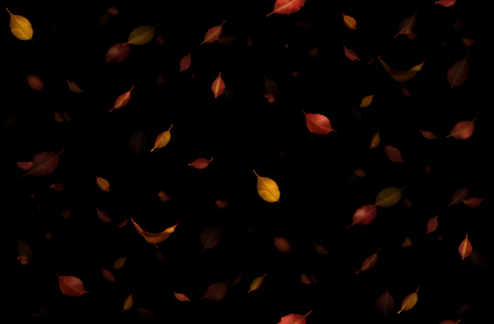
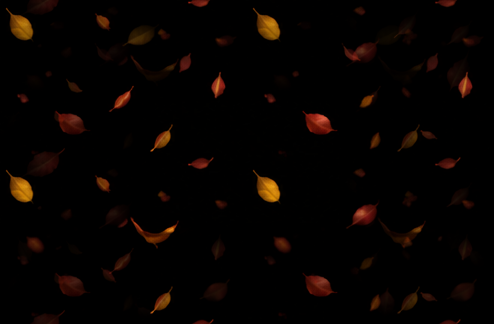
Environment effects start on Azeroth: Eastern Tirisfal gets fog, gloom, moonlight and glowing cauldrons
Kyle, 21 Nov 2026: "start to incorporate it through azeroth too", "test it with ONE zone", and "supplement
zones but NOT dominate them". world/zone_effects.py holds each map's effects and the zone loader applies them.
The renderer gains shade lists, a floor on scrolling layers so fog adds only its wisps, glows round every
lantern, brazier, fire and cauldron, and (unused for now) passing birds and flyover shadows. The scrolling
layers are re-sliced with a seam fix, because the old one left a cross through the middle of every tile.

Claude-Session: https://claude.ai/code/session_015TQrViPbuGDeiupTWSG9TT

diff --git a/ui/tilemap_renderer.py b/ui/tilemap_renderer.py
@@ -1234,12 +1234,17 @@ class TilemapRenderer:
         self._draw_occluders(screen, camera, viewport_rect, tilemap, player_pos, vendors)
         # ENVIRONMENT EFFECTS (docs/environment_effects_art_prompts.md): shade first (multiplied), then the scrolling
         # weather and fog layers and the drifting particles, then light over everything
-        if getattr(tilemap, "shade", None):
-            self._draw_shade(screen, camera, viewport_rect, tilemap.shade)
+        _shade = getattr(tilemap, "shade", None)
+        for _s in (_shade if isinstance(_shade, list) else [_shade] if _shade else ()):
+            self._draw_shade(screen, camera, viewport_rect, _s)
         for _layer in getattr(tilemap, "weather", None) or ():
             self._draw_weather(screen, camera, viewport_rect, _layer)
+        if getattr(tilemap, "glows", None):
+            self._draw_glows(screen, camera, viewport_rect, tilemap)
         if getattr(tilemap, "particles", None):
             self._draw_particles(screen, viewport_rect, tilemap)
+        if getattr(tilemap, "life", None):
+            self._draw_life(screen, viewport_rect, tilemap)
         if _sky:
             self._draw_sun(screen, viewport_rect, _sky)
         elif getattr(tilemap, "light", None):
@@ -1311,9 +1316,13 @@ class TilemapRenderer:
     # world the way the sky maps' sun is, breathing slowly so the beams feel like weather and not a sticker.
     EFFECTS_DIR = "assets/effects/"
 
-    def _effect(self, folder, name, size, strength=1.0, toward=(0, 0, 0)):
-        """An effect image at a size, faded toward black (light, added) or white (shade, multiplied) by strength."""
-        key = (folder, name, size, round(strength, 2), toward)
+    def _effect(self, folder, name, size, strength=1.0, toward=(0, 0, 0), floor=0.0):
+        """An effect image at a size, faded toward black (light, added) or white (shade, multiplied) by strength.
+
+        floor (0 to 1) takes that much off every pixel of an added layer first, so the faint haze between a fog's wisps
+        goes to nothing and only the wisps themselves are added. Kyle, 21 Nov 2026: weather effects "supplement zones
+        but NOT dominate them. They should complement the zone"; without a floor a fog layer greys the whole screen."""
+        key = (folder, name, size, round(strength, 2), toward, round(floor, 2))
         surf = self._sky_cache.get(key)
         if surf is None and key not in self._sky_cache:
             import os
@@ -1321,6 +1330,19 @@ class TilemapRenderer:
             if not os.path.exists(path):
                 path = f"{self.SKY_DIR}{name}.png"          # the sky's own sun rays live there
             surf = get_landmark_sprite(path, size[0], size[1])
+            if surf is not None and floor > 0 and toward == (0, 0, 0):
+                surf = surf.copy()
+                f = int(255 * min(1.0, floor))
+                surf.fill((f, f, f), special_flags=pygame.BLEND_SUB)
+                # stretch what's left back up, so the wisps keep their brightness
+                gain = 255.0 / max(1, 255 - f)
+                while gain > 1.01:
+                    step = min(gain, 2.0)
+                    copy = surf.copy()
+                    k = int(255 * (step - 1.0))
+                    copy.fill((k, k, k), special_flags=pygame.BLEND_MULT)
+                    surf.blit(copy, (0, 0), special_flags=pygame.BLEND_ADD)
+                    gain /= step
             if surf is not None and strength < 0.999:
                 surf = surf.copy()
                 if toward == (0, 0, 0):
@@ -1360,7 +1382,8 @@ class TilemapRenderer:
         "parallax": 1.0}. Added over the screen, scrolling at its own speed on top of the camera's."""
         import time
         size = int(self.tile_size * layer.get("tile", 14))
-        surf = self._effect("weather", layer["layer"], (size, int(size * 0.66)), float(layer.get("strength", 0.5)))
+        surf = self._effect(layer.get("folder", "weather"), layer["layer"], (size, int(size * 0.66)),
+                            float(layer.get("strength", 0.5)), floor=float(layer.get("floor", 0.0)))
         if surf is None:
             return
         sx, sy = layer.get("speed", (0, 0))
@@ -1413,6 +1436,131 @@ class TilemapRenderer:
             turns = st["sprites"][p[4] % len(st["sprites"])]
             img = turns[int((now * spin * p[3] / 45.0) + p[4]) % len(turns)]
             screen.blit(img, (viewport_rect.x + p[0] - img.get_width() // 2, viewport_rect.y + p[1] - img.get_height() // 2))
+        screen.set_clip(clip)
+
+    # LIGHT FROM THINGS THAT GIVE LIGHT. tilemap.glows = {"strength": 0.8}: every lantern, brazier, campfire, cauldron
+    # and lit window on the map throws a soft pool of its own colour, added over the gloom, so a dark zone has warm
+    # places in it. Which props glow and how is GLOW_KINDS, matched on the prop's art name, so new maps light themselves.
+    #: (words in the art name, colour, radius in tiles, how high up the prop the light sits, 0 top to 1 bottom)
+    GLOW_KINDS = (
+        (("fel_brazier", "fel_fire", "fel_crystal", "fel_lamp"), (90, 230, 60), 3.2, 0.35),
+        (("plague_cauldron", "plague_vat", "plague_brazier"), (140, 220, 50), 3.0, 0.45),
+        (("moon_lantern", "moonwell", "moon_lamp", "wisp_lamp"), (120, 170, 255), 3.0, 0.3),
+        (("glow_mushroom", "mushroom_ring", "glowcap"), (60, 220, 200), 2.4, 0.6),
+        (("lantern", "lamp_post", "lamppost", "sconce", "candle", "lamp"), (255, 180, 90), 2.6, 0.25),
+        (("brazier", "bonfire", "campfire", "fire_pit", "firepit", "pyre", "torch", "hearth", "forge", "beacon"),
+         (255, 140, 50), 3.4, 0.55),
+    )
+    _glow_tex = {}
+
+    @classmethod
+    def _glow_spec(cls, sprite_key):
+        name = sprite_key.rsplit("/", 1)[-1].lower()
+        for words, colour, radius, height in cls.GLOW_KINDS:
+            if any(w in name for w in words):
+                return colour, radius, height
+        return None
+
+    def _glow_surface(self, colour, radius_px, strength):
+        key = (colour, radius_px, round(strength, 2))
+        surf = self._glow_tex.get(key)
+        if surf is None:
+            import numpy as np
+            d = radius_px * 2
+            yy, xx = np.mgrid[0:d, 0:d].astype(np.float32)
+            r = np.sqrt((xx - radius_px) ** 2 + (yy - radius_px) ** 2) / radius_px
+            fall = np.clip(1.0 - r, 0.0, 1.0) ** 2.2 * strength            # bright at the source, gone at the rim
+            rgb = (fall[..., None] * np.array(colour, np.float32)[None, None, :]).astype(np.uint8)
+            surf = pygame.surfarray.make_surface(rgb.transpose(1, 0, 2))
+            self._glow_tex[key] = surf
+        return surf
+
+    def _draw_glows(self, screen, camera, viewport_rect, tilemap):
+        spots = getattr(tilemap, "_glow_spots", None)
+        if spots is None:
+            spots = []
+            for lm in getattr(tilemap, "landmarks", []):
+                spec = self._glow_spec(lm.get("sprite_key", ""))
+                if spec:
+                    colour, radius, height = spec
+                    spots.append((lm["anchor_x"] + lm["width_tiles"] / 2.0,
+                                  lm["anchor_y"] + lm["height_tiles"] * height, colour, radius))
+            tilemap._glow_spots = spots
+        if not spots:
+            return
+        k = float(tilemap.glows.get("strength", 0.8))
+        clip = screen.get_clip()
+        screen.set_clip(viewport_rect)
+        for gx, gy, colour, radius in spots:
+            sx, sy = camera.world_to_screen(gx, gy, self.tile_size)
+            rp = int(radius * self.tile_size)
+            x, y = viewport_rect.x + sx - rp, viewport_rect.y + sy - rp
+            if x > viewport_rect.right or y > viewport_rect.bottom or x + 2 * rp < viewport_rect.x \
+                    or y + 2 * rp < viewport_rect.y:
+                continue
+            screen.blit(self._glow_surface(colour, rp, k), (x, y), special_flags=pygame.BLEND_ADD)
+        screen.set_clip(clip)
+
+    # AMBIENT LIFE AND FLYOVER SHADOWS (EFX8). tilemap.life = {"flyers": ["life_crow", "shadow_hawk"], "every": (9, 20),
+    # "size": 1.4, "speed": 70}: now and then one thing crosses the screen, a bird over you or the shadow of something big
+    # much higher up. One at a time, so it stays a surprise. Shadows are drawn see-through; the creatures that are painted
+    # from above (UP_FACING) are turned to face where they're going, and the rest are flipped to.
+    LIFE_UP_FACING = {"shadow_dragon", "shadow_wyvern", "shadow_hawk", "life_vulture", "life_butterfly_blue",
+                      "life_monarch", "life_moth", "life_bats", "life_bees"}
+    #: a few of them together in one picture, so drawn bigger to keep each one readable
+    LIFE_GROUPS = {"life_bats", "life_bees", "life_geese", "life_parrots", "life_fish_school", "shadow_flock"}
+    _life_state = {}
+
+    def _draw_life(self, screen, viewport_rect, tilemap):
+        import math
+        import random
+        import time
+        cfg = tilemap.life
+        now = time.time()
+        st = self._life_state.get(tilemap.name)
+        if st is None:
+            # the first one is already on its way across when you arrive
+            st = {"next": now, "fly": None, "first": True}
+            self._life_state[tilemap.name] = st
+        w, h = viewport_rect.width, viewport_rect.height
+        if st["fly"] is None and now >= st["next"] and cfg.get("flyers"):
+            name = random.choice(cfg["flyers"])
+            shadow = name.startswith("shadow_")
+            size = self.tile_size * cfg.get("size", 1.4) * (2.6 if shadow else 1.5 if name in self.LIFE_GROUPS else 1.0)
+            img = get_landmark_sprite(f"{self.EFFECTS_DIR}life/{name}.png", int(size), int(size))
+            if img is not None:
+                left = random.random() < 0.5
+                y0, y1 = random.uniform(0.1, 0.9) * h, random.uniform(0.1, 0.9) * h
+                x0, x1 = (-size, w + size) if left else (w + size, -size)
+                ang = math.degrees(math.atan2(-(y1 - y0), x1 - x0))
+                if name in self.LIFE_UP_FACING:
+                    img = pygame.transform.rotate(img, ang - 90)
+                elif not left:
+                    img = pygame.transform.flip(img, True, False)
+                if shadow:
+                    img = img.copy()
+                    img.set_alpha(int(cfg.get("shadow_alpha", 95)))
+                speed = cfg.get("speed", 70.0) * (1.8 if shadow else 1.0)
+                dur = math.hypot(x1 - x0, y1 - y0) / max(1.0, speed)
+                start = now - (dur * 0.35 if st["first"] else 0.0)
+                st["fly"] = {"img": img, "a": (x0, y0), "b": (x1, y1), "t0": start, "dur": dur,
+                             "bob": 0.0 if shadow else 6.0}
+            st["first"] = False
+        fly = st["fly"]
+        if fly is None:
+            return
+        u = (now - fly["t0"]) / fly["dur"]
+        if u >= 1.0:
+            st["fly"] = None
+            lo, hi = cfg.get("every", (9, 20))
+            st["next"] = now + random.uniform(lo, hi)
+            return
+        x = fly["a"][0] + (fly["b"][0] - fly["a"][0]) * u
+        y = fly["a"][1] + (fly["b"][1] - fly["a"][1]) * u + math.sin(now * 3.0) * fly["bob"]
+        img = fly["img"]
+        clip = screen.get_clip()
+        screen.set_clip(viewport_rect)
+        screen.blit(img, (viewport_rect.x + x - img.get_width() // 2, viewport_rect.y + y - img.get_height() // 2))
         screen.set_clip(clip)
 
     def _draw_light(self, screen, viewport_rect, light):

diff --git a/world/zone_effects.py b/world/zone_effects.py
@@ -1,0 +1,51 @@
+"""Environment effects across Azeroth (docs/environment_effects_art_prompts.md, EFX1 to EFX10).
+
+Kyle, 21 Nov 2026: "I gave you a shit load of visual effect art. You used it in the SC starting zone and also the sky
+zones. Can you start to incorporate it through azeroth too." And: "let's test it with ONE zone!" So this starts with
+Eastern Tirisfal alone, and the rest of Azeroth joins it once Kyle has seen it.
+
+A map's effects are five optional layers, drawn by ui/tilemap_renderer.py over the world in this order:
+
+  shade      {"layer": "shade_haunted", "strength": 0.3}, or a list     multiplied: a vignette, or with "tile" a
+                                                                       drifting pattern (leaf shadow, cloud shadow)
+  weather    [{"layer": "atm_ground_fog", "strength": 0.3, ...}, ...]   scrolling layers, added, each at its own speed
+  particles  {"sprites": ["p_spore_plague"], "count": 6, ...}          small things drifting across the screen
+  glows      {"strength": 0.8}                                         a pool of light round every lantern, brazier,
+                                                                       campfire and cauldron on the map
+  life       {"flyers": ["life_crow", "shadow_wyvern"], ...}           now and then a bird, or a shadow far above
+  light      {"layer": "light_moonlight", "strength": 0.2}             added over everything, breathing slowly
+
+Maps that set their own (Dawnhaven's three, the sky maps) are left alone.
+"""
+
+ZONES = {
+    # Tirisfal: the Forsaken's grey country, cold and damp. A haunted vignette and a cool wet cast over everything,
+    # low fog lying on the ground and drifting very slowly, thin moonlight through it, and the plague cauldrons
+    # throwing their green into the murk. Kyle, 21 Nov 2026: "Let's stick with effects before we play with movement.
+    # Fog, sun, dampness etc. Lights", so no particles or passing birds yet.
+    "Eastern Tirisfal": {
+        "shade": {"layer": "shade_haunted", "strength": 0.28},
+        "weather": [
+            {"layer": "atm_ground_fog", "strength": 0.32, "floor": 0.3, "tile": 18, "speed": (-4, 1), "parallax": 1.0},
+        ],
+        "glows": {"strength": 0.75},
+        "light": {"layer": "light_moonlight", "strength": 0.16, "breathe": 0.1},
+    },
+}
+
+KEYS = ("shade", "weather", "glows", "particles", "life", "light")
+
+
+def apply(zones):
+    """Put each map's effects on it. `zones` is {name: tilemap}. Returns how many maps got effects."""
+    n = 0
+    for name, tm in zones.items():
+        fx = ZONES.get(name)
+        if not fx or getattr(tm, "sky", None) or any(getattr(tm, k, None) for k in KEYS):
+            continue
+        for k in KEYS:
+            if k in fx:
+                v = fx[k]
+                setattr(tm, k, [dict(x) for x in v] if isinstance(v, list) else dict(v))
+        n += 1
+    return n

diff --git a/tools/slice_effects_sheets.py b/tools/slice_effects_sheets.py
@@ -68,16 +68,26 @@ INSET = 9
 
 
 def seamless(img):
-    """Cross-fade a half-offset copy over the seams, so the panel tiles on all four sides."""
+    """Cross-fade a half-offset copy over the seams, one axis at a time, so the panel tiles on all four sides.
+
+    Each pass rolls the panel half its width (or height) along ONE axis and fades it in toward that axis's edges only:
+    the rolled copy's own seam lands in the middle, where it isn't used at all. The first version rolled both axes at
+    once and faded by distance to any edge, which put the copy's seams back in along the middle of every edge as a
+    visible cross (found 21 Nov 2026, when the layers went out across Azeroth)."""
     a = np.asarray(img, np.float32)
     h, w = a.shape[:2]
-    b = np.roll(np.roll(a, h // 2, 0), w // 2, 1)
-    yy = np.abs(np.linspace(-1, 1, h))[:, None]
-    xx = np.abs(np.linspace(-1, 1, w))[None, :]
-    edge = np.clip(np.maximum(yy, xx) * 1.6 - 0.6, 0, 1)            # 0 in the middle, 1 at the edges
-    edge = edge[..., None] if a.ndim == 3 else edge
-    out = a * (1 - edge) + b * edge
-    return Image.fromarray(np.clip(out, 0, 255).astype(np.uint8), img.mode)
+
+    def ramp(n):
+        r = np.clip(np.abs(np.linspace(-1, 1, n)) * 1.6 - 0.6, 0, 1)     # 0 in the middle, 1 at the two ends
+        return r * r * (3 - 2 * r)                                          # smoothstep, so the fade has no edge
+
+    ex = ramp(w)[None, :]
+    ey = ramp(h)[:, None]
+    if a.ndim == 3:
+        ex, ey = ex[..., None], ey[..., None]
+    a = a * (1 - ex) + np.roll(a, w // 2, 1) * ex
+    a = a * (1 - ey) + np.roll(a, h // 2, 0) * ey
+    return Image.fromarray(np.clip(a, 0, 255).astype(np.uint8), img.mode)
 
 
 def soft_key(img):

diff --git a/world/zone_manager.py b/world/zone_manager.py
@@ -67,6 +67,10 @@ class ZoneManager:
                 "tilemap": tilemap,
             }
 
+        # Light, shade, fog, drifting particles and passing birds (world/zone_effects.py).
+        from world.zone_effects import apply as apply_zone_effects
+        self.zones_with_effects = apply_zone_effects(all_zones)
+
         # Caves declare a parent zone in .region; overworld zones don't point
         # at another map. Used to tag encounters as location_type="cave".
         self.cave_names = {
